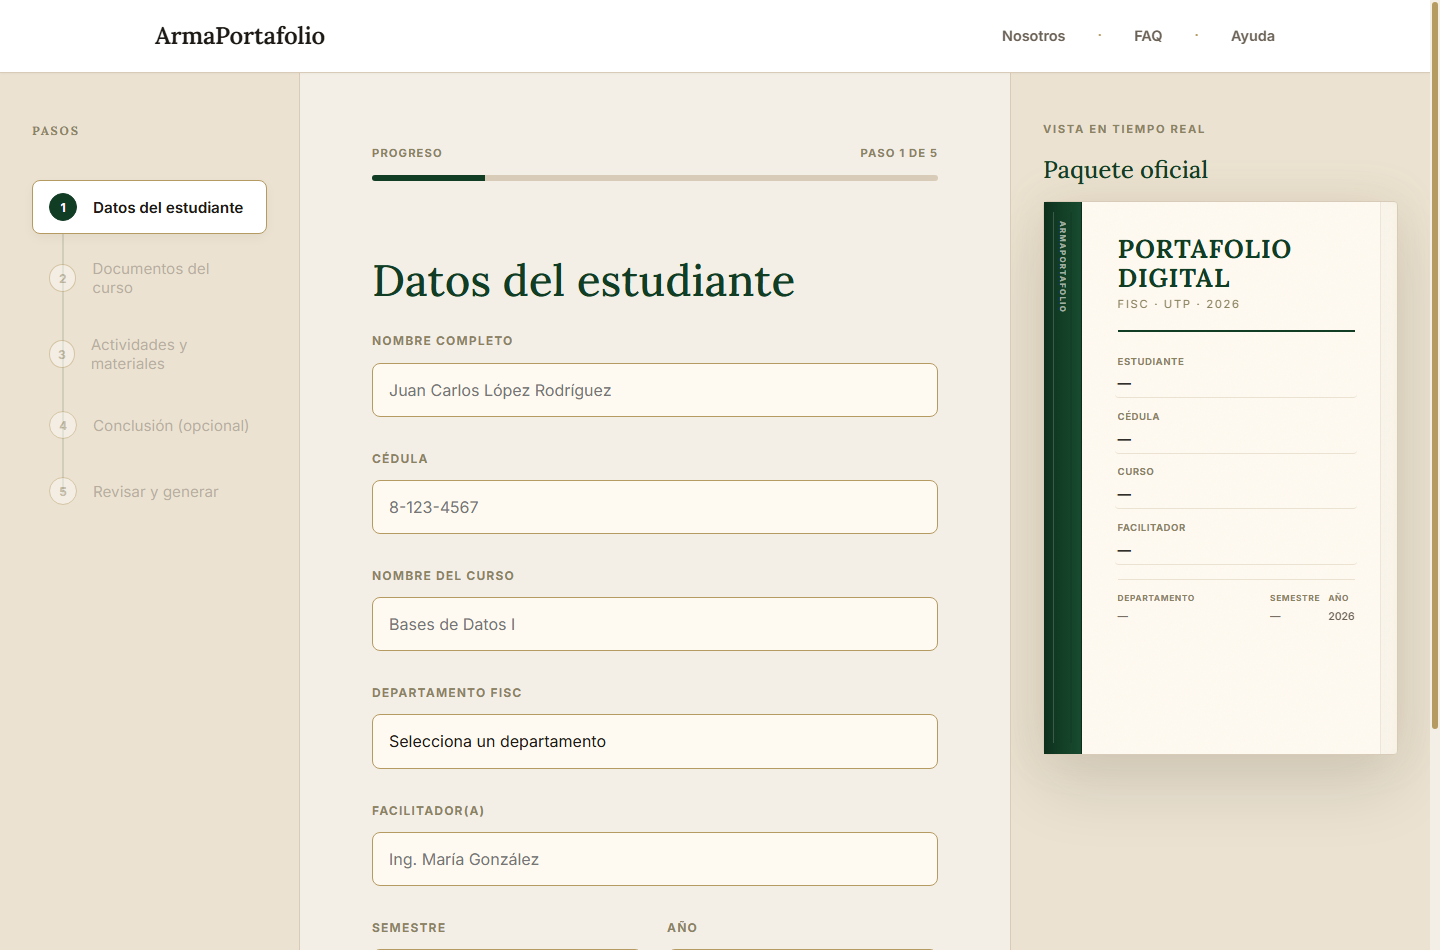
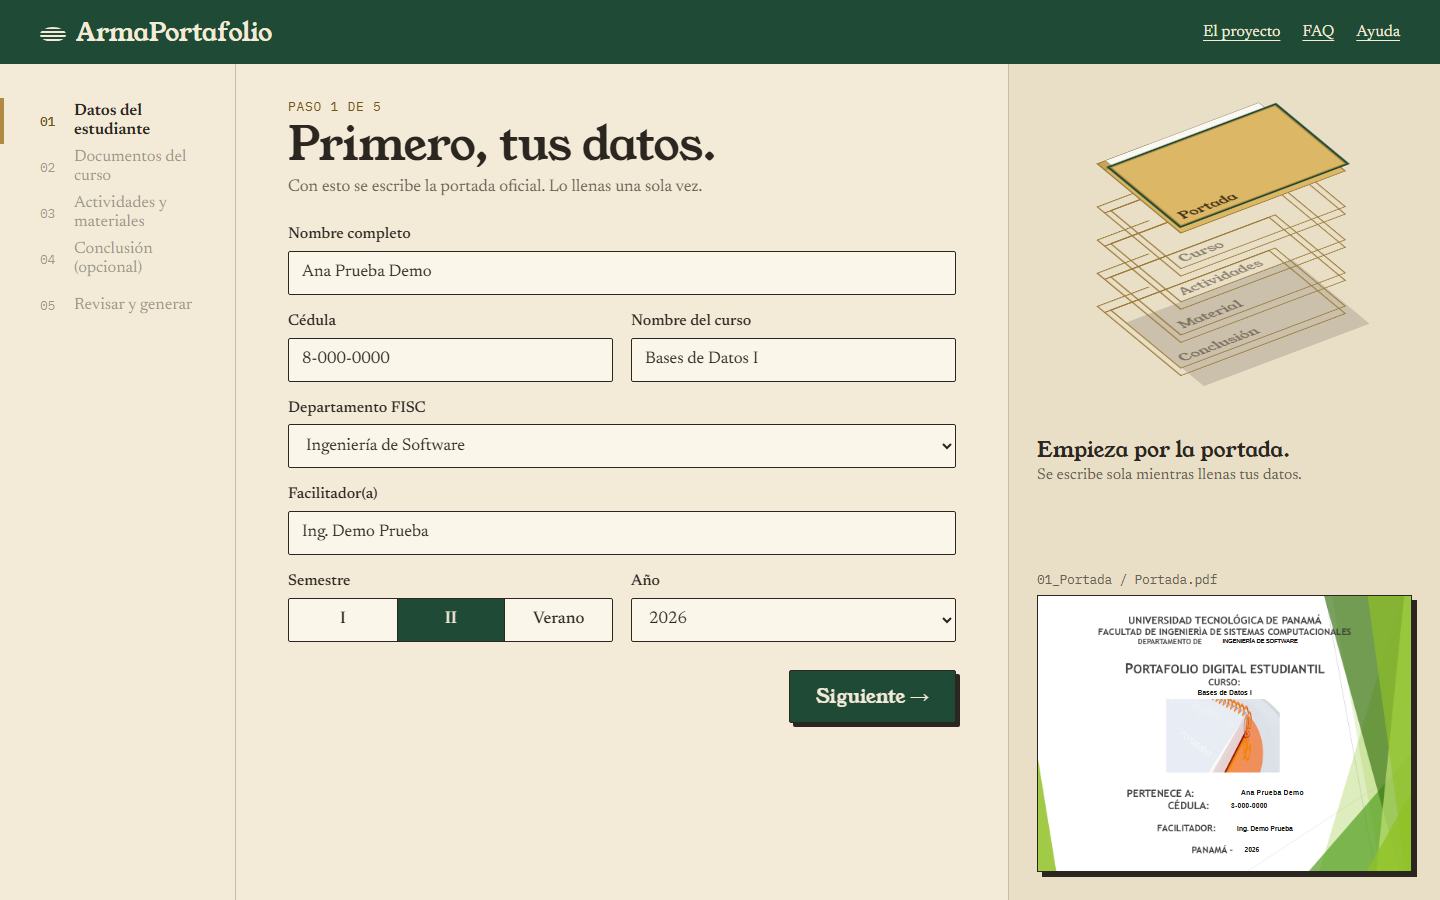
chore: drop unused assets and stale docs, restore the publish job
- remove assets/logos (unused, third-party marks) and the old-generator
  showcase capture; remove docs/PRODUCTION_CHECKLIST.md
- README screenshots retaken with the current design; README and the
  notices no longer mention GSAP, Lenis, Inter or Lora
- CSP: script-src no longer allows cdn.jsdelivr.net, which nothing loads
- CI: publish dist/ to Cloudflare Pages from main once tests pass and
  the two Cloudflare secrets exist

diff --git a/README.md b/README.md
@@ -12,19 +12,15 @@ Live demo: [armaport.pages.dev](https://armaport.pages.dev)
 
 ![Landing page overview](screenshots/01-overview.png)
 
-Landing page showing the problem framing, portfolio package concept, and entry point to the generator.
+Landing page with the entry point to the generator and the portfolio shown as a stack of folders.
 
 ![Portfolio generator](screenshots/02-generator.png)
 
-Generator screen showing the five-step workflow, student metadata form, progress state, and live package preview.
+Generator screen showing the five-step workflow, the student data form, the folder stack that fills as evidence is added, and the live cover preview.
 
 ![Generated portfolio cover](assets/showcase/01-portada-generada.png)
 
 Generated `Portada.pdf` showing the cover included in the final portfolio package.
-
-![Client-side generator workflow](assets/showcase/02-flujo-del-generador.png)
-
-Client-side workflow with the student data form, five-step progress indicator, and live preview of the package cover.
 
 ![Validated portfolio structure](assets/showcase/03-estructura-final.png)
 
@@ -42,12 +38,12 @@ The generator runs locally in the browser without an account or server-side file
 
 ## Technical implementation
 
-- Static HTML, CSS, and vanilla JavaScript. There is no `package.json`, framework, or build step in the repository.
+- Static HTML, CSS, and vanilla JavaScript, with no framework and no build step. The `package.json` in the repository only holds the checking and testing tools.
 - `pdf-lib` creates the PDF document and embeds the supplied cover image and fonts.
 - `fontkit` is registered with `pdf-lib` so the bundled Liberation Sans fonts can be embedded in the generated PDF.
 - `js/zip.js` contains a custom stored-ZIP writer. It writes local file headers, central-directory entries, end-of-central-directory data, and CRC-32 checksums. The project does not use JSZip.
 - IndexedDB stores only the latest generated ZIP Blob, filename, and creation time for the handoff to `descarga.html`.
-- The landing page loads GSAP, ScrollTrigger, and Lenis from CDN for motion and scroll behavior. These libraries are not used by the generator workflow.
+- Motion is plain CSS plus a small script (`js/landing.js`). No animation library is loaded.
 
 ## File handling and limits
 
@@ -98,16 +94,21 @@ npx playwright install chromium
 
 Use `npm run serve` rather than a plain static server when testing by hand. A plain server does not send the Content-Security-Policy, so it will not show what production blocks. Opening the HTML files with `file://` is not a representative runtime either.
 
-## Continuous integration
+## Continuous integration and deployment
 
-`.github/workflows/ci.yml` runs on every pull request and on every push to `main`: `npm run check`, then the browser tests against `dist/` served with the production headers.
+`.github/workflows/ci.yml` runs on every pull request and on every push to `main`:
 
-## Deployment
+1. **Revisar y probar**: `npm run check`, then the browser tests against `dist/` served with the production headers.
+2. **Publicar en Cloudflare Pages**: only on `main`, and only if step 1 passed. It builds `dist/` and uploads it to the `armaport` Pages project.
 
-The workflow does not publish the site. Deployment stays with Cloudflare Pages, in one of two ways:
+The Pages project is a Direct Upload project, so Cloudflare does not build from this repository by itself; the workflow does the upload. It needs two repository secrets:
 
-- **Git integration**: if the Pages project is connected to this repository, Cloudflare builds and publishes each push by itself and no token is needed here. Set the build command to `node scripts/build-export.mjs` and the output directory to `dist`, so only the public files are published.
-- **Manual upload**:
+- `CLOUDFLARE_API_TOKEN`: an API token with the *Account / Cloudflare Pages / Edit* permission.
+- `CLOUDFLARE_ACCOUNT_ID`: the account id shown in the Cloudflare dashboard.
+
+Without them the publish job ends with a notice and uploads nothing. The job runs in the `production` environment; adding a required reviewer there turns each publish into a manual approval.
+
+To publish by hand instead:
 
 ```powershell
 npm run build
@@ -118,6 +119,5 @@ npx wrangler@4 pages deploy dist --project-name armaport
 
 ## Documentation
 
-- [Production checklist](docs/PRODUCTION_CHECKLIST.md)
 - [Third-party notices](docs/THIRD_PARTY_NOTICES.md)
 - [Asset notices](docs/ASSET_NOTICES.md)

diff --git a/docs/ASSET_NOTICES.md b/docs/ASSET_NOTICES.md
@@ -1,18 +1,12 @@
 # Asset Notices
 
-The `assets/` directory contains runtime assets and retained reference materials.
+The `assets/` directory contains the runtime assets of the site.
 
 ## Runtime assets
 
 - `assets/templates/portada_base.PNG` is loaded by `js/generate.js` as the base image for the generated cover PDF.
 - `assets/fonts/LiberationSans-Regular.ttf` and `assets/fonts/LiberationSans-Bold.ttf` are loaded by `js/generate.js` and embedded in generated PDFs.
 
-## Reference assets
-
-The files under `assets/logos/` are retained reference materials. They are not referenced by the current HTML or JavaScript workflow. Their names and visual content may be subject to third-party rights and are not covered by the application's MIT source-code license.
-
-Do not treat these assets as original application code. Keep their provenance and usage scope separate from the implementation files.
-
 ## Showcase screenshots
 
-The files under `assets/showcase/` are user-supplied captures used by the landing page to demonstrate the generator flow, generated cover, and final folder structure. They include sample-looking student and institutional information; verify that the values are synthetic or replace/redact them before sharing the site in a context where they are not intended to be public.
+The files under `assets/showcase/` are user-supplied captures used by the landing page to show the generated cover and the final folder structure. They include sample-looking student and institutional information; verify that the values are synthetic or replace/redact them before sharing the site in a context where they are not intended to be public.

diff --git a/docs/THIRD_PARTY_NOTICES.md b/docs/THIRD_PARTY_NOTICES.md
@@ -19,12 +19,11 @@ This repository contains original application code and third-party libraries, fo
 ## Fonts and remote UI dependencies
 
 - Liberation Sans is bundled under `assets/fonts/` under the SIL Open Font License 1.1.
-- Inter and Lora are loaded from Google Fonts under the SIL Open Font License 1.1.
-- GSAP, ScrollTrigger, and Lenis are loaded from public CDNs by the landing page. Their own licenses apply.
+- Young Serif, Newsreader, and IBM Plex Mono are loaded from Google Fonts under the SIL Open Font License 1.1.
 
 ## Templates and reference assets
 
-The cover template, institutional logos, and related images under `assets/` are not original MIT-licensed application code. They remain subject to the rights and notices of their respective owners. See [Asset notices](ASSET_NOTICES.md).
+The cover template and related images under `assets/` are not original MIT-licensed application code. They remain subject to the rights and notices of their respective owners. See [Asset notices](ASSET_NOTICES.md).
 
 ## Hosting and analytics
 
